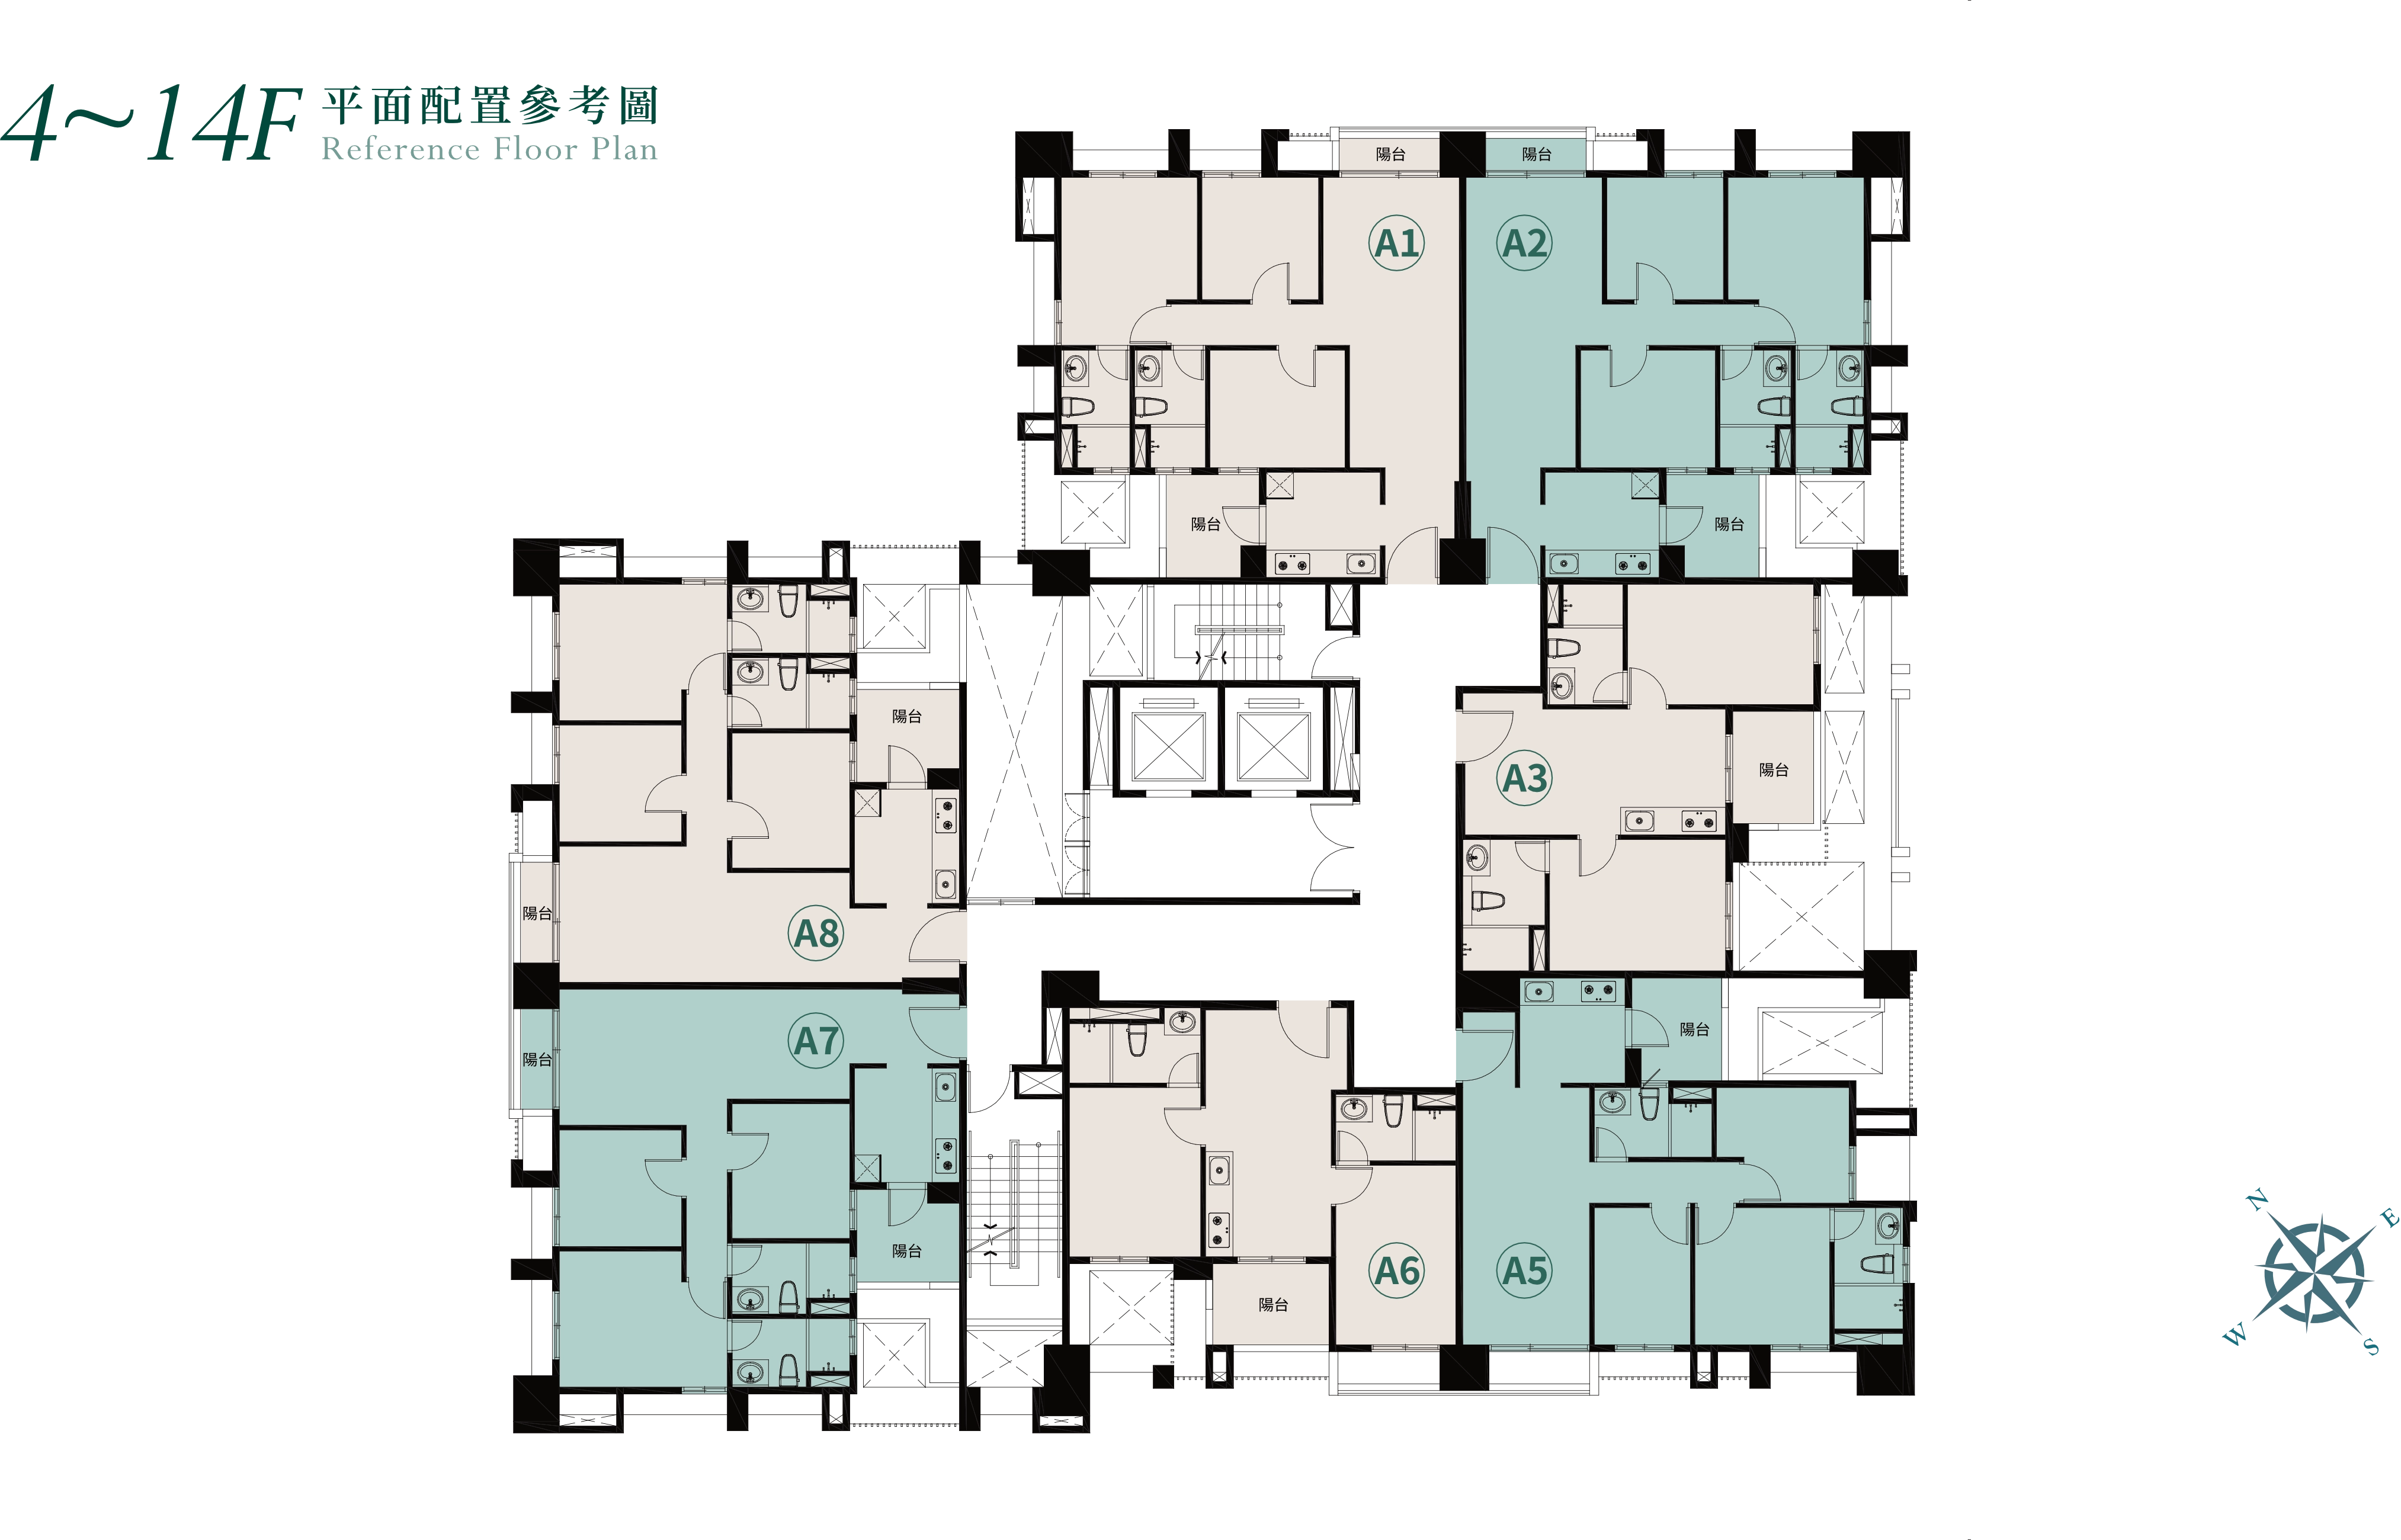
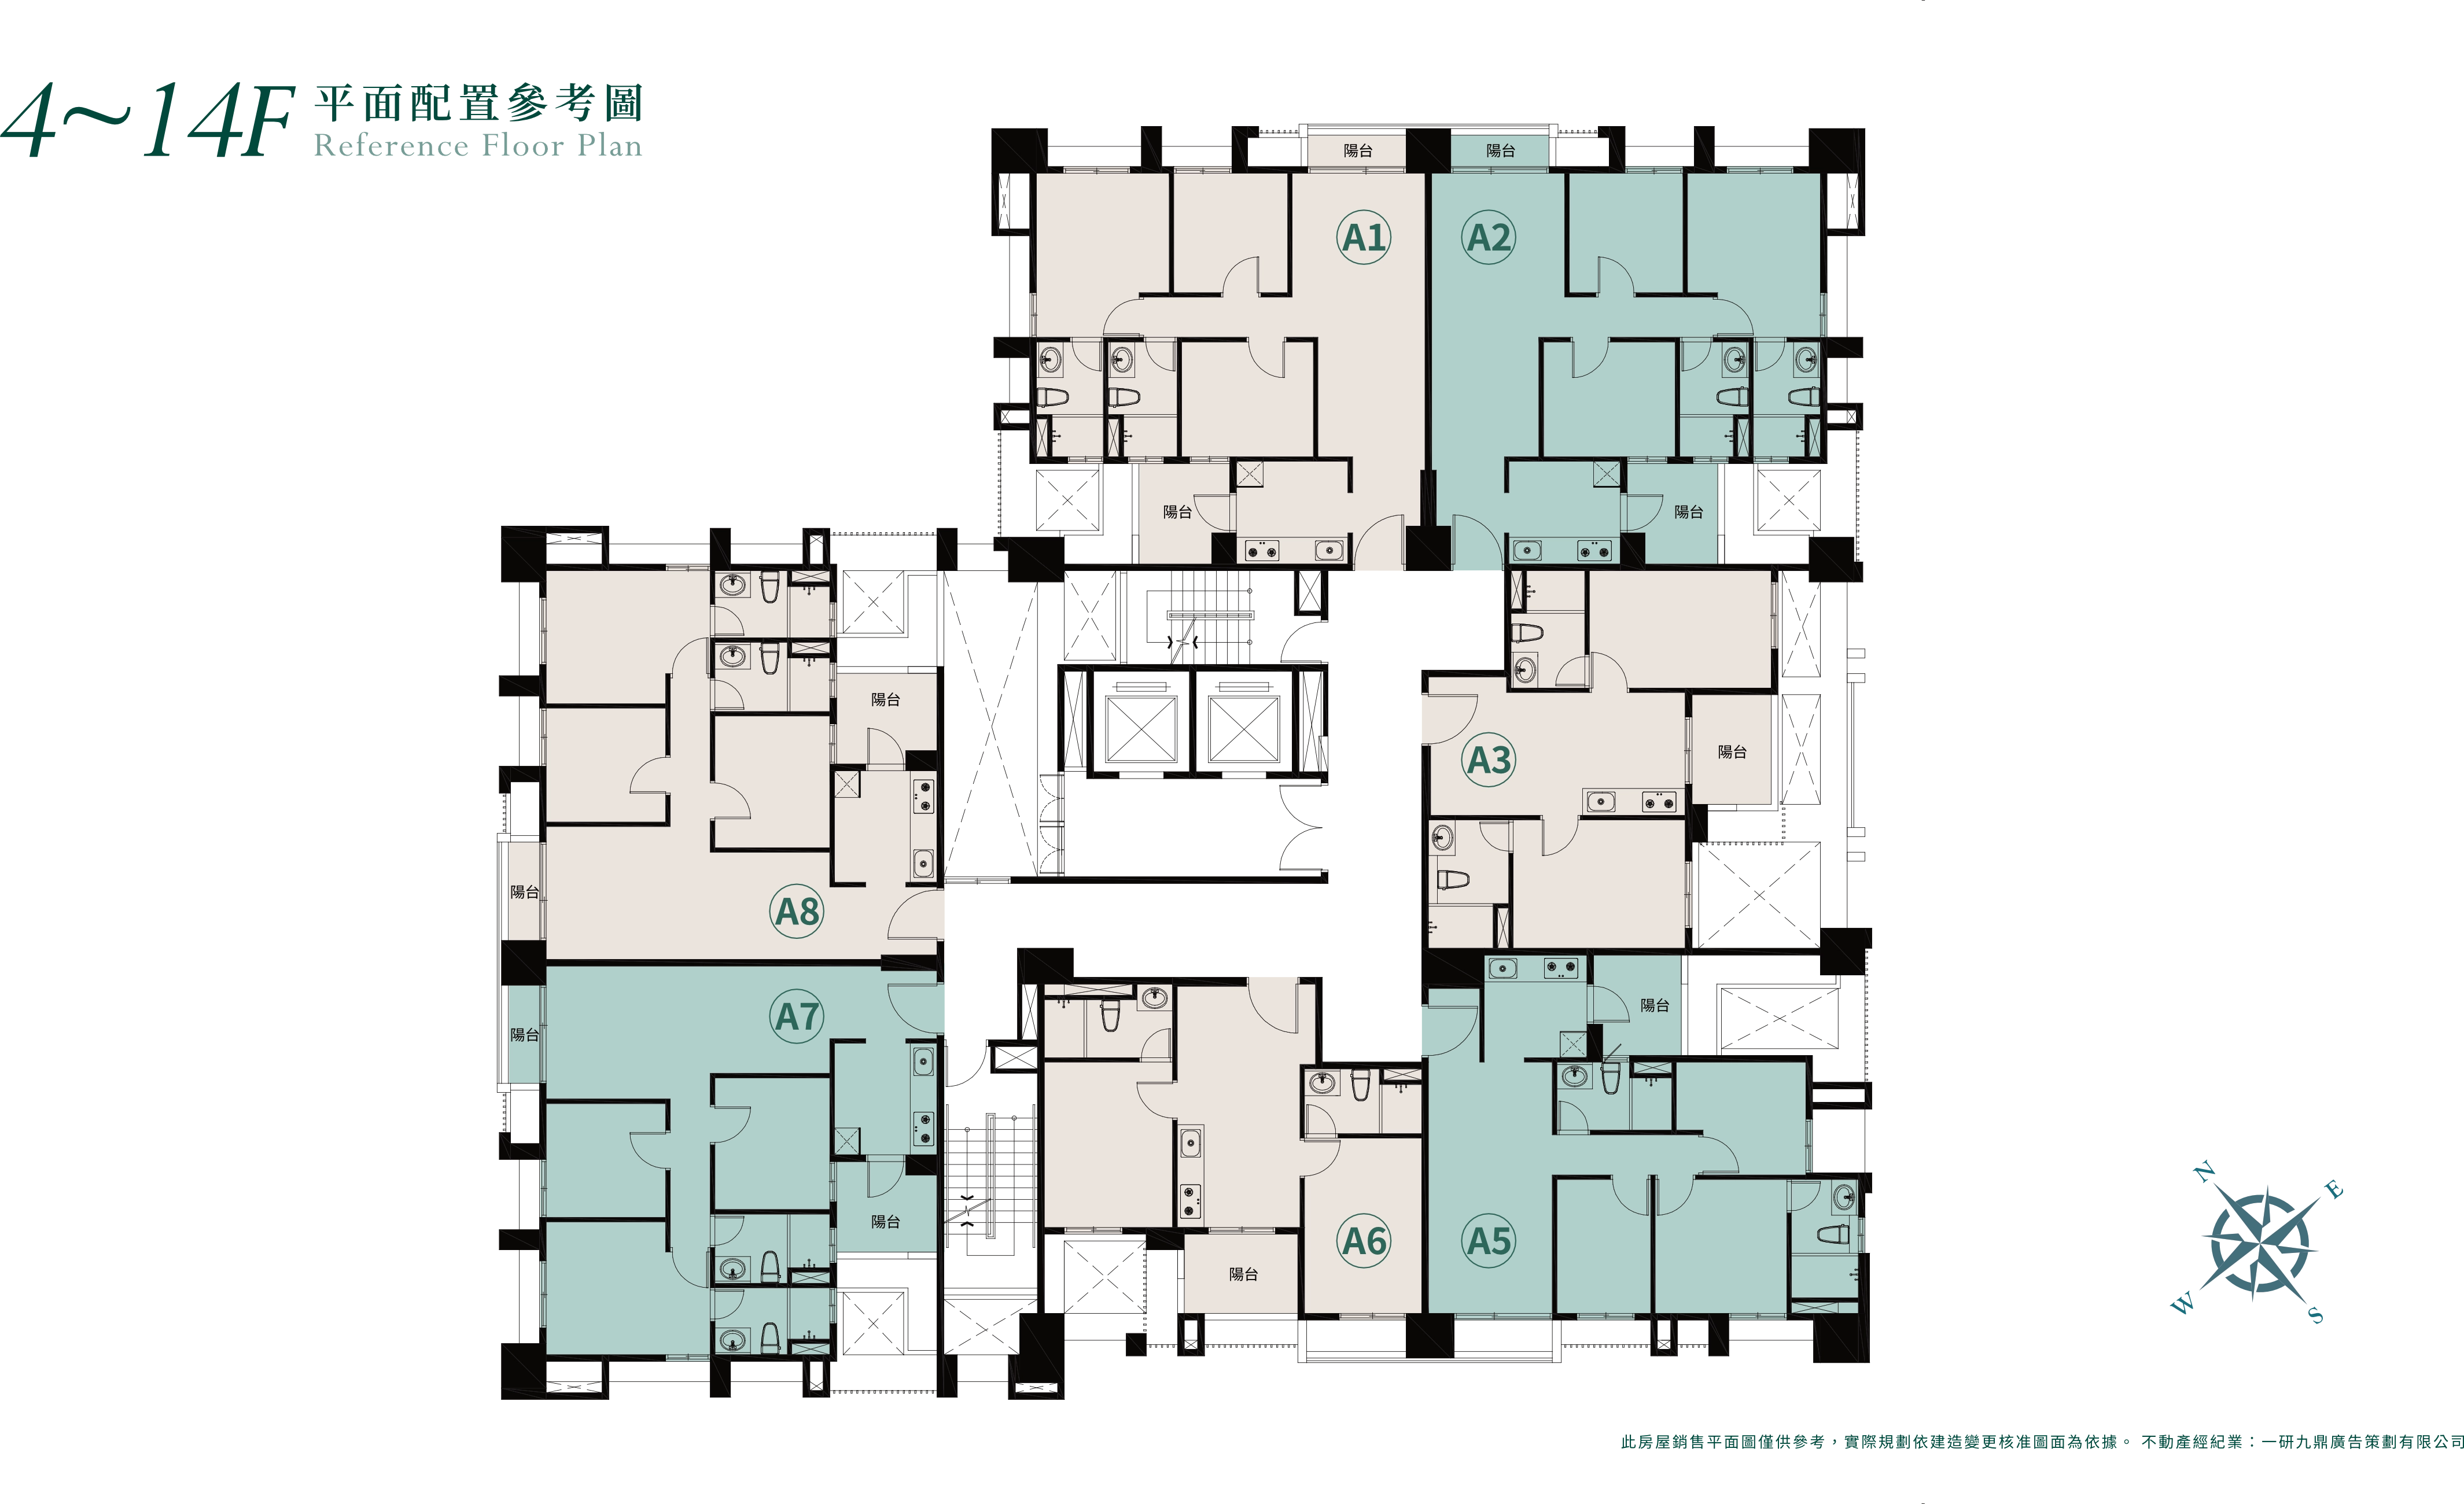
更新網站內容

diff --git a/assets/images/equipment/panasonic-door.md b/assets/images/equipment/panasonic-door.md
@@ -1,0 +1,67 @@
+創造屬於你的室內門
+● 獨特加工技術
+● LVL合板芯
+● 消音鎖舌，門擋緩衝條
+● F★★★★等級與低揮發性有機化合物材質
+
+* 圖片外觀僅供參考，請以實物為主。
+
+功能
+耐污性、耐傷性
+
+使用EB塗裝技術
+常保門扇美觀耐用
+日本原裝室內門的門扇，整體表面採用耐刮、耐磨、抗污的EB塗裝技術。
+
+耐污
+油性筆的污漬也難以滲入，一下就可以擦拭乾淨*。
+* 用布沾上廚房用的中性清潔劑後擦拭。為避免表面殘留清潔劑，最後請以乾布仔細擦拭乾淨。
+
+耐傷
+用鋼絲絨擦拭也幾乎不留下傷痕。
+
+
+耐久性
+獨特加工技術 貼皮不易翹起
+門片邊緣圓角設計。
+加上斷面捲入門扇中心特殊構造，所以能夠避免以往收邊蓋板脫落問題，常年使用也能保持優美外觀。
+
+LVL合板芯
+LVL合板芯
+LVL合板芯能防止門板變形，即使是最大的門，隨著時間消逝也能完美無瑕。表面的特殊防潮貼皮，可防止因受潮造成的變形。
+*1 一般結構設計：表面材內外側受潮程度不同導致門片變形。
+*2 Panasonic結構設計：表面採用特殊防潮貼皮，從而形成抗變形結構以防止水分（濕氣）流動。
+
+房門構造
+房門構造
+房門構造為LVL（Laminated Veneer Lumber）單板積成材（平行夾板）。順紋抗彎曲性能好，其厚度方向不易變形，作為櫃體、門板等主蕊材，可展現其良好的抗彎強度性能。
+
+機能性
+特殊鉸鏈設計<br> 讓開門關門變得比以往更輕
+特殊鉸鏈設計
+讓開門關門變得比以往更輕
+採用特殊鉸鏈設計以一根手指就能開關，安裝後還可透過螺絲起子調整至任何方向完成精確的成果，日本設計為所有不同年齡層提供卓越的耐用性並且提供友善的用戶操作模式。
+
+鎖芯、鎖舌、鎖舌座
+鎖舌可旋轉，無需區分左右。鎖舌座也可以前後微調+2 mm
+
+消音鎖舌，門擋緩衝條
+雙層構造防撞消音鎖舌，搭配門擋緩衝條，開關門更安靜，與門擋一體成型的緩衝條，不易剝落、更加美觀。
+
+安全性
+F★★★★等級與低揮發性有機化合物材質
+F★★★★等級〔超環保等級〕
+經認證的F★★★★材料，是日本工業規格/日本農林規格等標準中的最高等級。
+ 
+低揮發性有機化合物材質
+將日本法律禁止的物質，如甲苯和二甲苯屏除在外。
+
+設計性
+木材
+天然樹木的木材不是只有單純的凹凸，還存在著複雜的高低起伏。為了將如同真木的「木材質感」都一併融入，不但分析保有天然樹木紋理的樣本，也反覆地試做及驗證，終於有了更進一步的木材質感。
+
+光澤
+再現原木質感的過程中，了解到「沒有光澤的木頭並不自然」一事。Panasonic取得了能夠自然顯現光澤的技術，為商品注入了生命力。
+
+色澤
+「色澤」也是影響空間狀態的重要因素之一。我們對「色澤」的目標，是數值可以逼近於剛削下的天然樹木。

diff --git a/assets/images/equipment/GRASS.md b/assets/images/equipment/GRASS.md
@@ -1,0 +1,14 @@
+GRASS 鉸鍊
+使用世界最先進之鉸鍊廠商 GRASS 所代工生產， 易拆裝，可上
+下左右調整， 開啟 110 度或 1 60 度，鉸鍊上並附有緩衝功能。
+
+水槽底板
+採用鋁板，不怕水槽因漏水而脫膠、膨脹。
+
+隔板托
+全系列為金屬成型隔板托，不因荷重或時間長久而變型脫落或斷裂。
+
+吊櫃懸吊系統
+採用隱藏式懸掛器，可調整左右與仰角，單一懸掛器可承載重量高
+達 50KG；每一吊櫃搭配兩組懸掛器使其可承受 100KG 之重量，提
+供了整體更好的強度與安全。

diff --git a/assets/images/equipment/維夫拉克電子鎖.md b/assets/images/equipment/維夫拉克電子鎖.md
@@ -1,0 +1,9 @@
+專屬於你的解鎖風格
+擁有最新指紋辨識、卡片感應、密碼輸入、App，等多種便利開門方式。還附加機械鑰匙，可當緊急時最後的備用選擇，而鑰匙孔使用滑蓋式設計隱藏於電子鎖的內部，以保持優美的外觀。L396電子鎖擁有以上5種解鎖模式，絕對符合所有年齡及各種開門解鎖情況。
+現在就找出屬於你的開門風格！
+
+超強電池續航力
+每天使用10次開門，電池壽命長達1.5年以上
+低電量人聲語音通知，不必再隨時擔心電池電量問題
+緊急供電：電池完全沒有電量時，於室外使用9V電池輕觸電源處供電
+節能省電設計：需使用電子鎖時才喚醒電路，大幅降低耗電量

diff --git a/assets/images/equipment/ES41890.md b/assets/images/equipment/ES41890.md
@@ -1,0 +1,6 @@
+隱藏式抽油煙機
+
+排風降噪尖端靜音技術
+高亮度LED照明裝置
+易清可拆式高吸附濾網
+搭配不鏽鋼油杯 使用更安心

diff --git a/assets/images/equipment/kronotex-2.md b/assets/images/equipment/kronotex-2.md
@@ -1,0 +1,3 @@
+Kronotex 全球最大德國第一品牌
+建於1897年，120餘年歷史，全球最大木業集團生產商，Kronotex由奧地利隆歐茲區的Kaindl家族經營的鋸木廠開始發展，60年後於薩爾斯堡興建生產木地板的工廠，時至今日，已成為全球最大、設備最先進的強化複合木地板品牌。
+

diff --git a/assets/images/construction method/頂樓防水.md b/assets/images/construction method/頂樓防水.md
@@ -1,1 +1,3 @@
+頂樓防水
+
 屋頂防水處理採 PU 防水層，地坪以隔熱磚鋪設，同時配合溢排管排水處理，以確實達到防水隔熱效果。